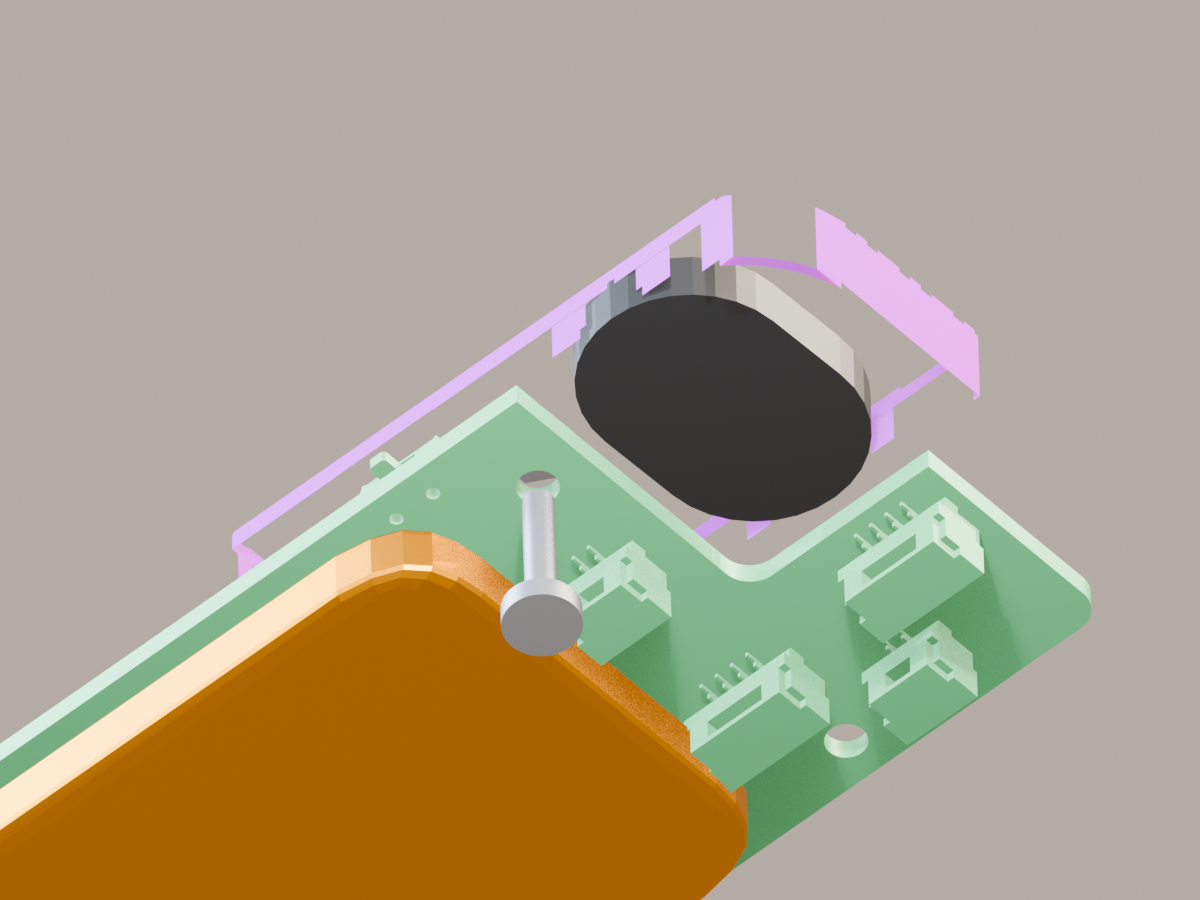
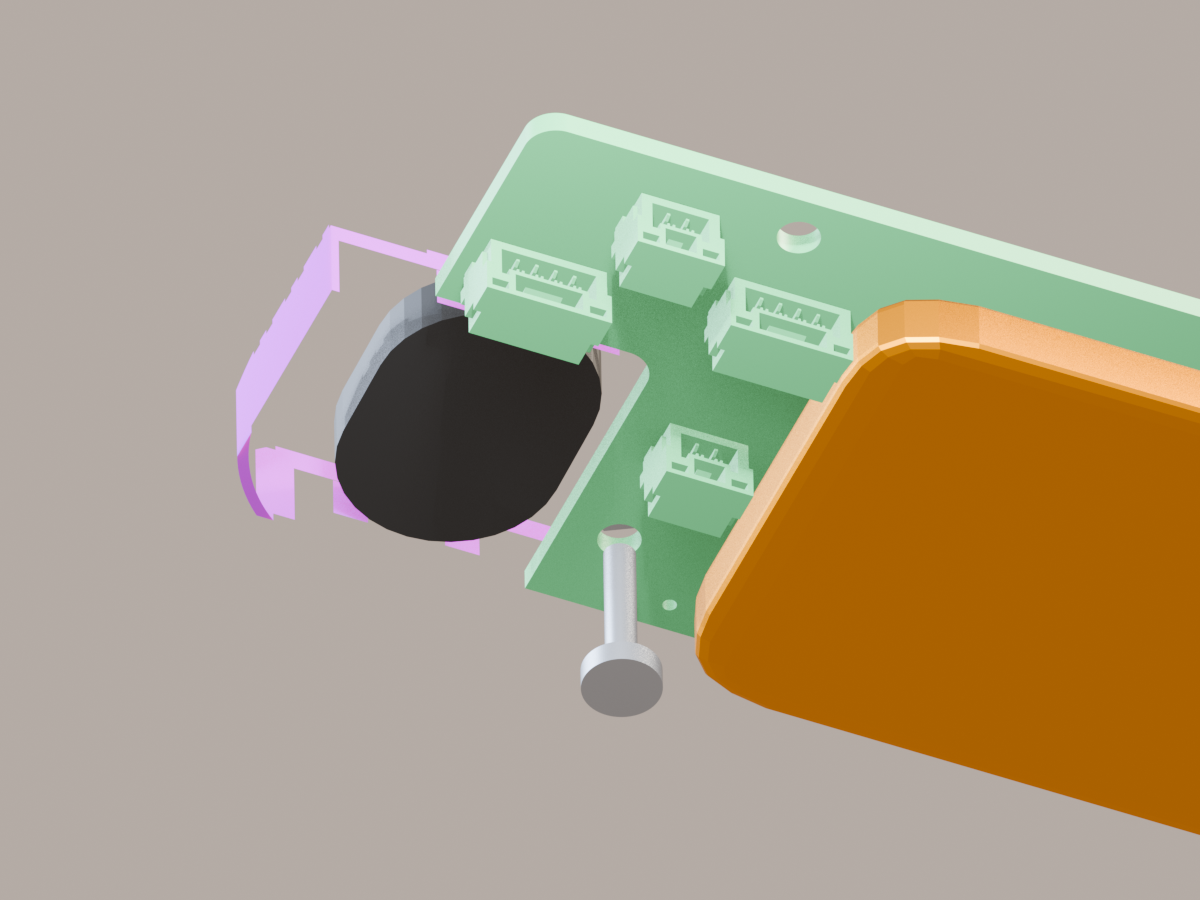
fix: separate Reset from H2 screw in review

diff --git a/hardware/pocket_card/case/tools/render_captive_nut_review.py b/hardware/pocket_card/case/tools/render_captive_nut_review.py
@@ -66,6 +66,7 @@ H2_REQUIRED_OBJECTS = {
     "nut_6",
     "screw_6",
 }
+H2_MIN_PROJECTED_SEPARATION_PX = 120.0
 TEMP_PREFIX = "__captive_nut_review_"
 EXPECTED_AUTHORED_COMPONENTS = {
     "Battery": {
@@ -792,7 +793,7 @@ def _render_h2_cutaway():
     # hex nut and cage mouth remain separately legible in the oblique view.
     _move_model(bpy.data.objects["screw_6"], (0.0, 0.0, -6.0), assembly)
     target = _model_point(assembly, (67.0, 12.0, -2.0))
-    camera = target + _model_vector(assembly, (50.0, -58.0, -88.0))
+    camera = target + _model_vector(assembly, (35.0, 80.0, -88.0))
     _configure_scene(camera, target, 3.65)
 
 
@@ -928,12 +929,82 @@ def _self_test_state_restore():
     )
 
 
+def _h2_projected_clearance():
+    from bpy_extras.object_utils import world_to_camera_view
+
+    bpy.context.view_layer.update()
+    scene = bpy.context.scene
+    camera = scene.camera
+    cap = bpy.data.objects["cap_reset"]
+    screw = bpy.data.objects["screw_6"]
+    cap_bounds = _local_bounds(cap)
+    screw_bounds = _local_bounds(screw)
+    cap_world = cap.matrix_world @ Vector((
+        (cap_bounds[0] + cap_bounds[1]) / 2.0,
+        (cap_bounds[2] + cap_bounds[3]) / 2.0,
+        (cap_bounds[4] + cap_bounds[5]) / 2.0,
+    ))
+    screw_x = (screw_bounds[0] + screw_bounds[1]) / 2.0
+    screw_y = (screw_bounds[2] + screw_bounds[3]) / 2.0
+    axis_world = (
+        screw.matrix_world @ Vector((screw_x, screw_y, screw_bounds[4])),
+        screw.matrix_world @ Vector((screw_x, screw_y, screw_bounds[5])),
+    )
+
+    def project(point):
+        ndc = world_to_camera_view(scene, camera, point)
+        return Vector((ndc.x * RENDER_SIZE[0], (1.0 - ndc.y) * RENDER_SIZE[1])), ndc.z
+
+    cap_pixel, cap_depth = project(cap_world)
+    axis_pixels = [project(point) for point in axis_world]
+    start, end = axis_pixels[0][0], axis_pixels[1][0]
+    segment = end - start
+    denominator = segment.length_squared
+    parameter = 0.0 if denominator == 0.0 else max(
+        0.0, min(1.0, (cap_pixel - start).dot(segment) / denominator)
+    )
+    clearance = (cap_pixel - (start + parameter * segment)).length
+    points = [(cap_pixel, cap_depth), *axis_pixels]
+    framed = all(
+        0.0 <= pixel.x <= RENDER_SIZE[0]
+        and 0.0 <= pixel.y <= RENDER_SIZE[1]
+        and depth > 0.0
+        for pixel, depth in points
+    )
+    return clearance, framed, tuple(cap_pixel), tuple(start), tuple(end)
+
+
+def _self_test_h2_projection():
+    before = _scene_signature()
+    with SceneStateGuard():
+        _render_h2_cutaway()
+        clearance, framed, cap_pixel, axis_start, axis_end = _h2_projected_clearance()
+        if not framed:
+            raise ReviewFailure(
+                f"H2 Reset/screw projection is cropped: cap={cap_pixel!r}, "
+                f"axis={axis_start!r}->{axis_end!r}"
+            )
+        if clearance < H2_MIN_PROJECTED_SEPARATION_PX:
+            raise ReviewFailure(
+                f"H2 Reset-to-screw-axis projection is only {clearance:.1f} px; "
+                f"requires {H2_MIN_PROJECTED_SEPARATION_PX:.1f} px"
+            )
+    if _scene_signature() != before:
+        raise ReviewFailure("H2 projection self-test contaminated canonical state")
+    print(
+        f"PASS H2 projection: cap_reset center to screw_6 axis {clearance:.1f} px, "
+        f"both framed; cap_reset={cap_pixel!r}, "
+        f"screw_6 axis={axis_start!r}->{axis_end!r}"
+    )
+
+
 def _arguments(argv):
     parser = argparse.ArgumentParser()
     parser.add_argument("--output-dir", type=Path, default=DEFAULT_OUTPUT_DIR)
     parser.add_argument("--view", choices=tuple(OUTPUTS))
     parser.add_argument("--preflight-only", action="store_true")
     parser.add_argument("--self-test-state-restore", action="store_true")
+    parser.add_argument("--self-test-h2-projection", action="store_true")
     parser.add_argument("--inject-failure-view", choices=tuple(OUTPUTS), help=argparse.SUPPRESS)
     return parser.parse_args(argv)
 
@@ -946,6 +1017,9 @@ def main(argv=None):
         return
     if args.self_test_state_restore:
         _self_test_state_restore()
+        return
+    if args.self_test_h2_projection:
+        _self_test_h2_projection()
         return
     views = (args.view,) if args.view else tuple(OUTPUTS)
     args.output_dir.parent.mkdir(parents=True, exist_ok=True)

diff --git a/hardware/pocket_card/case/test_captive_nut_review.py b/hardware/pocket_card/case/test_captive_nut_review.py
@@ -158,6 +158,17 @@ class CaptiveNutReviewBlenderTest(unittest.TestCase):
         result = self.blender("--python", SCRIPT, "--", "--self-test-state-restore")
         self.assertIn("PASS real H2 setup failure restored selection, active object, and canonical state", result.stdout)
 
+    def test_h2_camera_separates_reset_center_from_screw_axis_in_frame(self):
+        result = self.blender(
+            "--python", SCRIPT, "--", "--self-test-h2-projection",
+            check=False)
+        self.assertEqual(result.returncode, 0, result.stdout)
+        self.assertRegex(
+            result.stdout,
+            r"PASS H2 projection: cap_reset center to screw_6 axis "
+            r"(?:1[2-9][0-9]|[2-9][0-9]{2})(?:\.[0-9]+)? px",
+        )
+
     def test_authored_light_and_hidden_fasteners_do_not_change_output_or_state(self):
         with tempfile.TemporaryDirectory(dir="/tmp") as temporary:
             baseline, adversarial = Path(temporary, "baseline"), Path(temporary, "adversarial")
